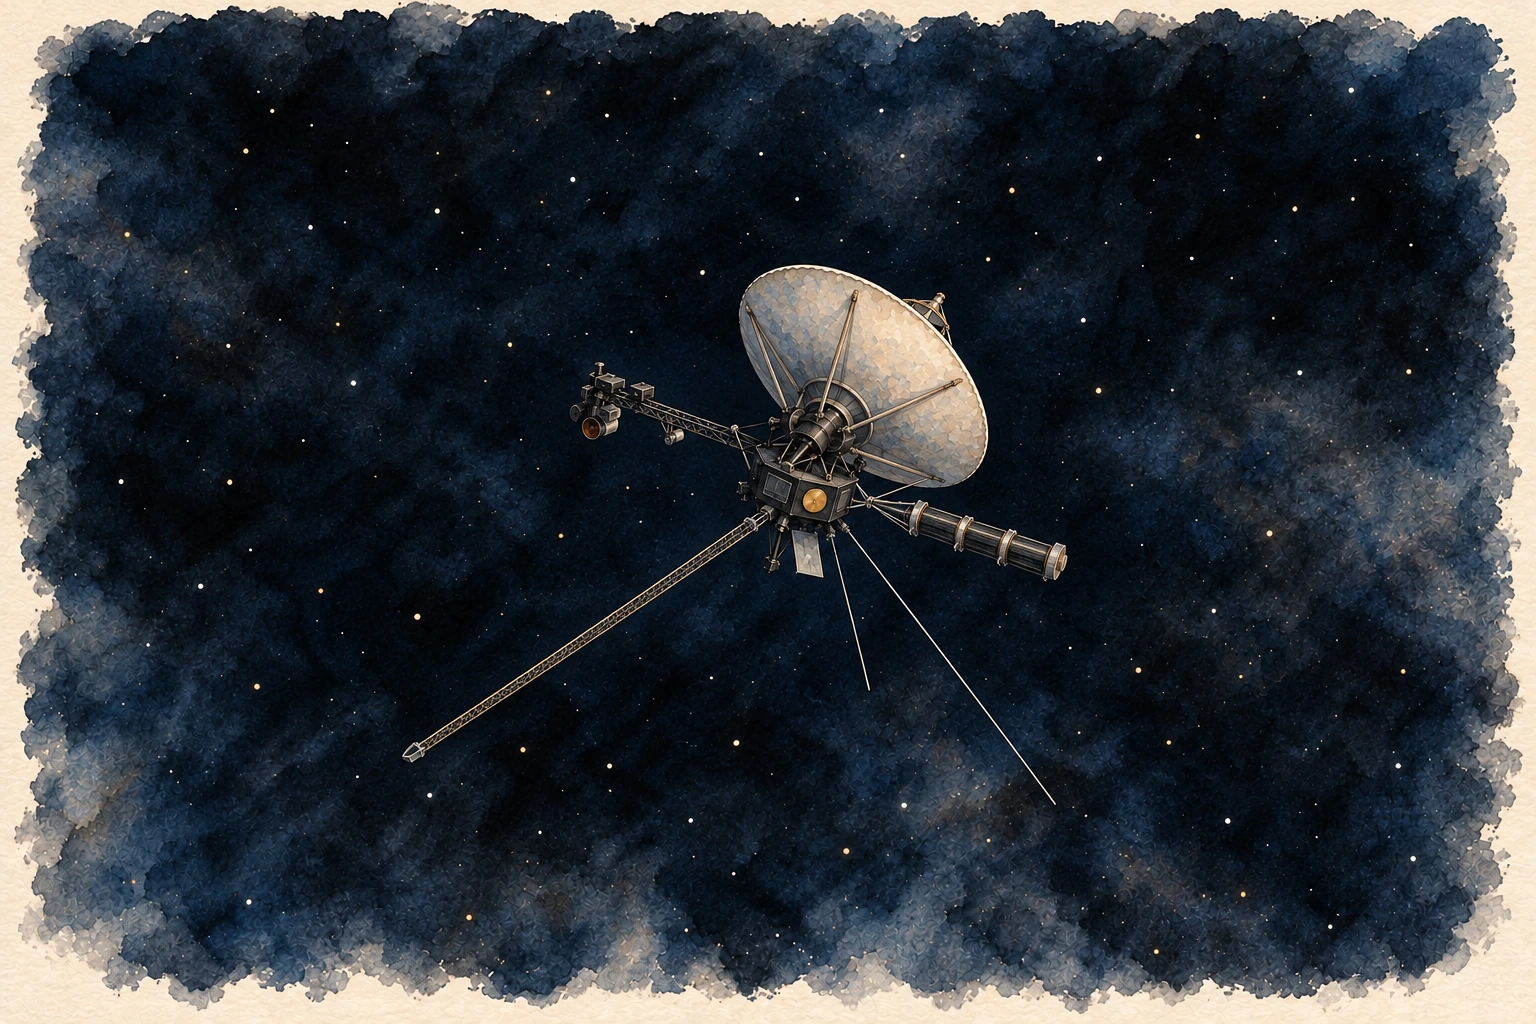
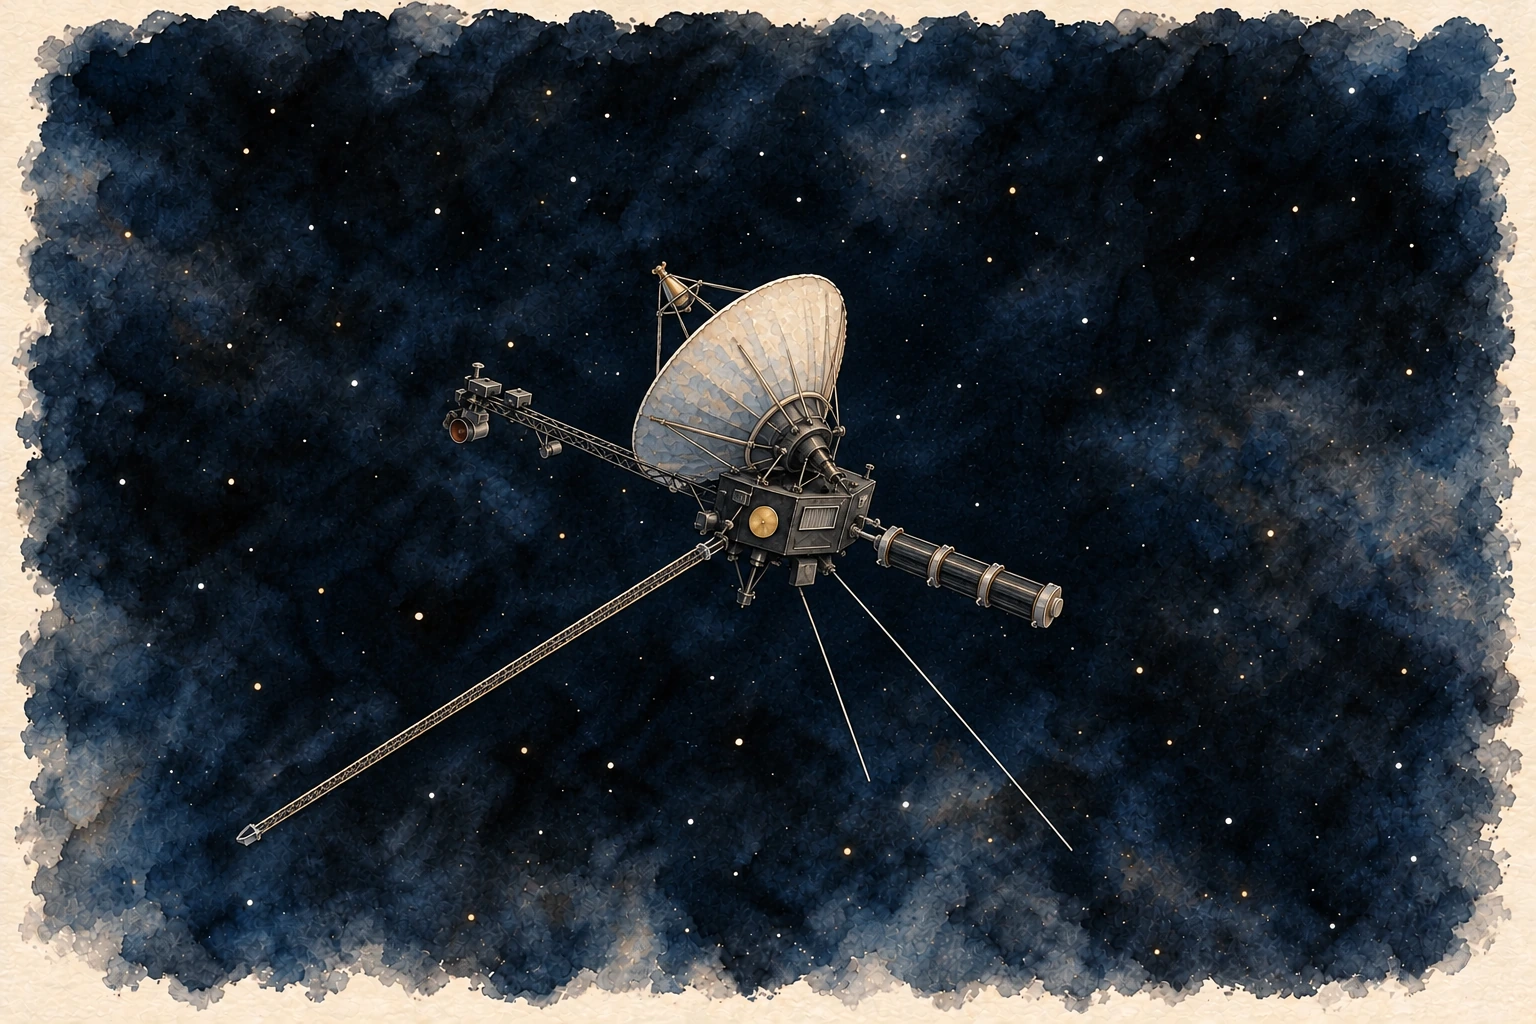
Refine space artwork and make Voyager travel outward

diff --git a/pictures/space/index.html b/pictures/space/index.html
@@ -16,11 +16,12 @@ illustration_note:
 - Sixteen connected watercolor scenes begin near Earth. One branch leads inward through Venus and Mercury to a
   separate picture of the Sun. Another leads through the Moon and Mars into the asteroid belt, then to Jupiter,
   Saturn, Uranus, Neptune and Pluto, then to Arrokoth in the Kuiper Belt and the Voyagers beyond the heliopause.
-  Voyager 1 leads back to Earth. Recognizable worlds continue across the views.
+  Both Voyagers continue outward. Voyager 1 also offers a separate look back toward Earth. Recognizable worlds
+  continue across the views.
 - These are scientific illustrations with simplified features. Sizes, distances and viewpoints are arranged for
   exploration; they do not show a live sky, an exact surface map or a spacecraft flight path. The ISS is
   enlarged so its structure can be seen.
-- Martian relief is emphasized to make the volcanoes and canyon visible. Ceres and Vesta are separate enlarged
+- Martian relief is simplified to keep its broad shield volcanoes and branching canyon legible. Ceres and Vesta are separate enlarged
   portraits based on Dawn images; their sizes and separation are illustrative. Craters and grooves are
   simplified. The small pale patches in Occator represent reflective salt deposits.
 - Io, Europa, Titan, Enceladus, Miranda and Triton are enlarged separately to show their surfaces; their sizes
@@ -45,7 +46,7 @@ illustration_note:
   journey. The heliopause is a boundary measured through particles and fields, with no visible wall in the
   painting. The gold circle marks the record’s mounting location; its cover engravings are too small to show
   here. The small Earth beside Voyager 1 is a navigation portrait; its size and position do not show a view of
-  Earth from the spacecraft.
+  Earth from the spacecraft. Both dishes point homeward while the spacecraft continue outward.
 - Venus’s cloud contrast is strengthened to suggest patterns studied in ultraviolet images; its pale color is an
   interpretation. The clouds hide its surface. Its illumination is a chosen view, rather than its current phase
   from Earth. Magellan is an enlarged historical portrait, with its engineering details simplified. The mission
@@ -563,9 +564,7 @@ scenes:
 - id: neptune
   name: Near Neptune
   image: /pictures/space/assets/near-neptune-watercolor.webp
-  alt: A pale blue-green watercolor Neptune with soft cloud bands and the dark oval storm seen by Voyager 2 in 1989.
-    Triton at lower left has muted gray terrain above pale pinkish polar ice with small dark streaks. A tiny Uranus
-    at upper left offers a return. A small ivory-and-brown Pluto at upper right leads onward.
+  alt: A pale blue-green watercolor Neptune with soft cloud bands and the dark oval storm seen by Voyager 2 in 1989. Triton at lower left has subtly textured gray terrain above an irregular pale pinkish polar cap with short dark streaks. A tiny Uranus at upper left offers a return. A small ivory-and-brown Pluto at upper right leads onward.
   caption: Near Neptune. Explore its atmosphere and Triton, or continue to Pluto.
   back: uranus
   back_label: Uranus
@@ -706,9 +705,7 @@ scenes:
 - id: kuiper-belt
   name: In the Kuiper Belt
   image: /pictures/space/assets/kuiper-belt-watercolor.webp
-  alt: Watercolor Arrokoth has a smaller rounded lobe at left and a larger flattened lobe at right, joined by a
-    narrow pale neck. Broad reddish-brown surface patches sit against dark indigo space. A tiny Pluto at upper left
-    offers a return. A small Voyager spacecraft portrait at upper right opens the next scene.
+  alt: Watercolor Arrokoth has two flattened, irregular reddish lobes, smaller at left and larger at right, gently joined by a pale narrow neck. Soft shading gives their low rounded edges depth. A tiny Pluto at upper left offers a return, and a Voyager portrait at upper right opens the next scene.
   caption: In the Kuiper Belt. Explore Arrokoth, then continue to Voyager 2 beyond the heliopause.
   back: pluto
   back_label: Pluto
@@ -722,8 +719,8 @@ scenes:
     primary: true
     hint_y: -10
   - label: The neck
-    x: 47
-    y: 47
+    x: 46
+    y: 46
     detail: arrokoth-neck
     primary: false
     label_side: right
@@ -767,34 +764,28 @@ scenes:
     label_edge: left
     paint_image: /pictures/space/assets/voyager-2-watercolor.webp
     paint_width: 4.2
-    paint_position: 74% 57%
-    paint_zoom: 260% auto
+    paint_position: 32.4% 47.4%
+    paint_zoom: 220% auto
 - id: voyager-2
   name: Near Voyager 2
   image: /pictures/space/assets/voyager-2-watercolor.webp
-  alt: Voyager 2 seen obliquely from the front and slightly below, its pale dish facing upper left above a dark
-    equipment body. Three finned power units and slender booms extend into indigo watercolor space. A small
-    Arrokoth portrait offers a return to the Kuiper Belt.
-  caption: Voyager 2. Beyond Neptune, its route turned south of the planets’ orbital plane. Continue into deep space.
+  alt: Voyager 2 seen obliquely from the front and below. Its pale dish points back toward the upper left, while its dark equipment body, three finned power units and camera boom stand against indigo space. The right side opens toward deep space; a small Arrokoth portrait at upper left links back through the journey.
+  caption: Voyager 2 continues outward, south of the planets’ orbital plane, while its antenna stays pointed back toward Earth. Continue into deep space.
   back: kuiper-belt
   back_label: The Kuiper Belt
   next: deep-space
   next_label: Deep space
   spots:
   - label: Voyager 2
-    x: 64.1
-    y: 47
+    x: 38
+    y: 39
     detail: voyager-2
     primary: true
   - label: Deep space
-    x: 50
+    x: 76
     y: 14
-    label_x: 70
-    label_edge: right
-    detail: voyager-distance
     go: deep-space
-    width: 64
-    height: 21
+    travel_label: true
   - label: Arrokoth
     x: 15
     y: 14
@@ -816,7 +807,7 @@ scenes:
   image: /pictures/space/assets/deep-space-watercolor.webp
   alt: A wide, quiet indigo watercolor field with sparse distant stars and exposed ivory paper at its edges.
     Small navigation portraits of Voyager 2 at upper left and Voyager 1 at upper right open their separate scenes.
-  caption: Deep space. Leave Voyager 2’s path and turn toward Voyager 1, traveling in another direction.
+  caption: Deep space. Explore the Voyagers’ separate paths. Both spacecraft keep traveling outward, far from Earth and far from each other.
   back: voyager-2
   back_label: Voyager 2
   next: voyager-1
@@ -845,8 +836,8 @@ scenes:
     label_edge: right
     paint_image: /pictures/space/assets/voyager-2-watercolor.webp
     paint_width: 4.8
-    paint_position: 74% 57%
-    paint_zoom: 260% auto
+    paint_position: 32.4% 47.4%
+    paint_zoom: 220% auto
   - label: Voyager 1
     x: 85
     y: 20
@@ -860,65 +851,60 @@ scenes:
     label_edge: left
     paint_image: /pictures/space/assets/voyager-1-watercolor.webp
     paint_width: 4.8
-    paint_position: 56% 40%
+    paint_position: 49.2% 36.8%
     paint_zoom: 260% auto
 - id: voyager-1
   name: Near Voyager 1
   image: /pictures/space/assets/voyager-1-watercolor.webp
-  alt: Voyager 1 seen from behind and above, with the rear of its pale dish facing the viewer and its open side
-    turned toward upper right. A gold record cover sits on the dark equipment body, three finned power units
-    extend right and the camera platform extends left. A small Earth portrait at upper right leads back home.
-  caption: Voyager 1. Explore the message it carries and the story of Pale Blue Dot, then return to Earth.
-  back: deep-space
-  back_label: Deep space
-  next: earth
-  next_label: Earth
+  alt: Voyager 1 seen from behind its pale dish, whose open side points back toward the small Earth portrait at upper left. The dark equipment body and gold record cover face the viewer, with three power units to the right and the camera platform to the left. Open space ahead at right leads into deep space.
+  caption: Voyager 1 keeps traveling outward, with Earth behind it and its antenna turned homeward. Continue into deep space, or look back toward Earth.
+  back: earth
+  back_label: Earth
+  next: deep-space
+  next_label: Deep space
   spots:
   - label: Voyager 1
-    x: 56.3
-    y: 36.6
+    x: 49
+    y: 35.5
     detail: voyager-1
     primary: true
     hint_y: -15
   - label: Golden Record
-    x: 53
-    y: 48.8
+    x: 49.7
+    y: 51
     detail: golden-record
     label_edge: left
     hint_x: 0
     hint_y: 25
   - label: Pale Blue Dot
-    x: 39
+    x: 30.8
     y: 40.5
     detail: pale-blue-dot
     label_edge: left
+    hint_x: 8
   - label: Power source
-    x: 64.1
-    y: 53
+    x: 63.5
+    y: 56.3
     detail: voyager-power
     label_side: right
     label_gap: 2
     hint_y: 15
   - label: Deep space
-    x: 50
+    x: 76
     y: 14
-    label_x: 30
-    label_edge: left
-    detail: voyager-distance
     go: deep-space
-    width: 64
-    height: 21
+    travel_label: true
   - label: Earth
-    x: 85
+    x: 15
     y: 14
     detail: earth
     primary: true
     go: earth
     width: 3.2
     height: 4.8
-    label_x: 83.4
+    label_x: 16.6
     label_y: 14
-    label_edge: left
+    label_edge: right
     paint_image: /pictures/space/assets/near-earth-v2-watercolor.webp
     paint_width: 3.2
     paint_position: 28.75% 49.25%
@@ -2327,7 +2313,7 @@ details:
   - arrokoth-formation
   - arrokoth-facts
   image: /pictures/space/assets/kuiper-belt-watercolor.webp
-  position: 46.4% 43.3%
+  position: 44.7% 43.7%
   zoom: 400% auto
   alt: A pale curved band follows the narrow junction between Arrokoth’s reddish lobes.
 - id: arrokoth-color
@@ -2368,9 +2354,9 @@ details:
   - voyager-routes
   - voyager-hardware
   image: /pictures/space/assets/voyager-1-watercolor.webp
-  position: 56% 40%
+  position: 49.2% 36.8%
   zoom: 260% auto
-  alt: The rear of Voyager 1’s pale dish above its dark equipment body, with the camera platform at left.
+  alt: The ribbed back of Voyager 1’s dish, aimed toward Earth at upper left, above the equipment body and gold record cover.
 - id: voyager-2
   label: Voyager 2
   kicker: The longer planetary tour
@@ -2389,8 +2375,8 @@ details:
   - voyager-2
   - voyager-routes
   image: /pictures/space/assets/voyager-2-watercolor.webp
-  position: 74% 57%
-  zoom: 260% auto
+  position: 32.4% 47.4%
+  zoom: 220% auto
   alt: Voyager 2’s tilted pale dish, dark equipment body and instrument platform, seen from the front and below.
 - id: heliopause
   label: Beyond the solar wind
@@ -2445,7 +2431,7 @@ details:
   - record-cover
   - sagan-newman
   image: /pictures/space/assets/voyager-1-watercolor.webp
-  position: 53.6% 48.4%
+  position: 49.6% 51.1%
   zoom: 1000% auto
   alt: The small circular gold record cover on a visible face of Voyager 1’s dark equipment body.
 - id: voyager-power
@@ -2464,7 +2450,7 @@ details:
   - voyager-hardware
   - voyager-model
   image: /pictures/space/assets/voyager-1-watercolor.webp
-  position: 67% 54%
+  position: 65.8% 58.0%
   zoom: 700% auto
   alt: Three finned power units arranged end to end along Voyager 1’s short rightward boom.
 - id: pale-blue-dot
@@ -2484,7 +2470,7 @@ details:
   sources:
   - pale-blue-dot
   image: /pictures/space/assets/voyager-1-watercolor.webp
-  position: 37% 37%
+  position: 27.1% 37.3%
   zoom: 600% auto
   alt: The camera apertures on the instrument platform at the end of Voyager 1’s leftward science boom.
   link: https://science.nasa.gov/mission/voyager/voyager-1s-pale-blue-dot/
@@ -2514,3 +2500,4 @@ details:
   alt: A quiet field of dark watercolor and sparse distant stars between the two spacecraft scenes.
 ---
 <p>Begin near Earth. Follow the worlds into their closer views.</p>
+

diff --git a/_layouts/space.html b/_layouts/space.html
@@ -49,7 +49,7 @@
               {%- comment -%} Inside a sentence a name keeps a lower-case "the": "Travel to the Moon", "Read about the Moon". {%- endcomment -%}
               {% assign label_start = spot.label | slice: 0, 4 %}{% if label_start == 'The ' %}{% assign travel_name = spot.label | replace_first: 'The ', 'the ' %}{% else %}{% assign travel_name = spot.label %}{% endif %}
               {% if spot.paint_image %}<span class="journey-painted-world" aria-hidden="true" style="--spot-x:{{ spot.x }}%;--spot-y:{{ spot.y }}%;--paint-width:{{ spot.paint_width }}%;{% if spot.paint_ratio %}--paint-ratio:{{ spot.paint_ratio }};{% endif %}{% if spot.paint_clip %}clip-path:{{ spot.paint_clip }};{% endif %}background-image:url('{{ spot.paint_image }}');background-position:{{ spot.paint_position }};background-size:{{ spot.paint_zoom }}"></span>{% endif %}
-              {% if spot.go %}<a class="journey-destination" href="#scene-{{ spot.go }}" data-travel="{{ spot.go }}" style="--spot-x:{{ spot.x }}%;--spot-y:{{ spot.y }}%;--world-width:{{ spot.width }}%;--world-height:{{ spot.height }}%" aria-label="Travel to {{ travel_name | escape }}"><span class="picture-sr">Travel to {{ travel_name }}</span></a>{% endif %}
+              {% if spot.go %}<a class="journey-destination{% if spot.travel_label %} journey-travel-link{% endif %}" href="#scene-{{ spot.go }}" data-travel="{{ spot.go }}" style="--spot-x:{{ spot.x }}%;--spot-y:{{ spot.y }}%;{% unless spot.travel_label %}--world-width:{{ spot.width }}%;--world-height:{{ spot.height }}%;{% endunless %}" aria-label="Travel to {{ travel_name | escape }}">{% if spot.travel_label %}<span class="picture-hotspot-label"><span aria-hidden="true">→</span> <span>{{ spot.label }}</span></span>{% else %}<span class="picture-sr">Travel to {{ travel_name }}</span>{% endif %}</a>{% endif %}
               {% if spot.href %}<a class="journey-destination" href="{{ spot.href }}" style="--spot-x:{{ spot.x }}%;--spot-y:{{ spot.y }}%;--world-width:{{ spot.width }}%;--world-height:{{ spot.height }}%" aria-label="Travel to {{ travel_name | escape }}"><span class="picture-sr">Travel to {{ travel_name }}</span></a>{% endif %}
               {% if spot.detail %}<button type="button" class="picture-hotspot journey-label" data-detail="{{ spot.detail }}"{% if spot.primary %} data-primary="true"{% endif %}{% if spot.label_edge %} data-label-edge="{{ spot.label_edge }}"{% endif %}{% if spot.label_side %} data-label-side="{{ spot.label_side }}"{% endif %}{% if spot.label_gap %} data-label-gap{% endif %} style="--spot-x:{{ spot.label_x | default: spot.x }}%;--spot-y:{{ spot.label_y | default: spot.y }}%{% if spot.label_gap %};--label-gap:{{ spot.label_gap }}cqw{% endif %}{% if spot.hint_x %};--hint-x:{{ spot.hint_x }}px{% endif %}{% if spot.hint_y %};--hint-y:{{ spot.hint_y }}px{% endif %}" aria-label="Read about {{ travel_name | escape }}" hidden><span class="picture-hotspot-label">{{ spot.label }}</span><span class="picture-hotspot-number" aria-hidden="true">{{ forloop.index }}</span></button>{% endif %}
               {% endfor %}
@@ -63,7 +63,7 @@
           {% for scene in page.scenes %}
           <ol class="picture-choices journey-choices" data-choices="{{ scene.id }}" aria-label="Places in {{ scene.name | escape }}">
             {%- comment -%} A world that can be visited is named once: its name opens the information, and "go there" travels. {%- endcomment -%}
-            {% for spot in scene.spots %}<li><span class="picture-choice-number" aria-hidden="true">{{ forloop.index }}</span>{% if spot.detail %}<a href="#note-{{ spot.detail }}" data-detail="{{ spot.detail }}">{{ spot.label }}</a>{% endif %}{% if spot.go %}<a class="journey-choice-travel" href="#scene-{{ spot.go }}" data-travel="{{ spot.go }}"><span class="picture-sr">{{ spot.label }}: </span>go there <span aria-hidden="true">→</span></a>{% elsif spot.href %}<a class="journey-choice-travel" href="{{ spot.href }}"><span class="picture-sr">{{ spot.label }}: </span>go there <span aria-hidden="true">→</span></a>{% endif %}</li>{% endfor %}
+            {% for spot in scene.spots %}<li><span class="picture-choice-number" aria-hidden="true">{{ forloop.index }}</span>{% if spot.detail %}<a href="#note-{{ spot.detail }}" data-detail="{{ spot.detail }}">{{ spot.label }}</a>{% endif %}{% if spot.go %}<a class="journey-choice-travel" href="#scene-{{ spot.go }}" data-travel="{{ spot.go }}">{% if spot.travel_label %}<span aria-hidden="true">→</span> {{ spot.label }}{% else %}<span class="picture-sr">{{ spot.label }}: </span>go there <span aria-hidden="true">→</span>{% endif %}</a>{% elsif spot.href %}<a class="journey-choice-travel" href="{{ spot.href }}"><span class="picture-sr">{{ spot.label }}: </span>go there <span aria-hidden="true">→</span></a>{% endif %}</li>{% endfor %}
           </ol>
           {% endfor %}
           <nav class="journey-navigation" aria-label="Connected destinations" hidden><a href="#scene-vicinity" id="journey-back" class="picture-text-link">Earth vicinity</a><a href="#scene-earth" id="journey-next" class="picture-text-link">Earth</a><a href="#scene-venus" id="journey-branch" class="picture-text-link" hidden>Venus</a></nav>
@@ -131,3 +131,4 @@
   </div>
 </body>
 </html>
+

diff --git a/css/space.css b/css/space.css
@@ -13,6 +13,12 @@
 .journey-destination { position:absolute; left:var(--spot-x); top:var(--spot-y); width:var(--world-width); height:var(--world-height); min-width:44px; min-height:44px; transform:translate(-50%,-50%); border-radius:50%; -webkit-tap-highlight-color:transparent; }
 .journey-painted-world { position:absolute; left:var(--spot-x); top:var(--spot-y); width:var(--paint-width); aspect-ratio:var(--paint-ratio,1); transform:translate(-50%,-50%); border-radius:50%; pointer-events:none; background-repeat:no-repeat; }
 .journey-destination:focus-visible { outline:2px solid #fffdf5!important; outline-offset:-4px!important; }
+/* Empty space has no painted body to find. Its arrow and name are one
+   visible travel link, with the same label treatment as the other places. */
+.journey-travel-link { width:max-content; height:auto; min-height:44px; display:flex; align-items:center; border-radius:2px; z-index:2; text-decoration:none; }
+.journey-travel-link .picture-hotspot-label { position:static; display:block; opacity:1; pointer-events:auto; white-space:nowrap; width:max-content; max-width:none; font-size:14px; }
+.show-places .journey-travel-link .picture-hotspot-label { transform:none; }
+.journey-travel-link:hover .picture-hotspot-label,.journey-travel-link:active .picture-hotspot-label { opacity:var(--select-dim); }
 .journey-label { z-index:2; }
 /* Names appear on hover, keyboard focus or the optional hints, as in
    the Farm House. The painted body and information label stay separate. */
@@ -89,3 +95,4 @@
 @media(orientation:landscape) and (max-height:500px) {
  .is-fullscreen .journey-navigation { flex-direction:column; flex-shrink:0; gap:0; margin-top:8px; }
 }
+
